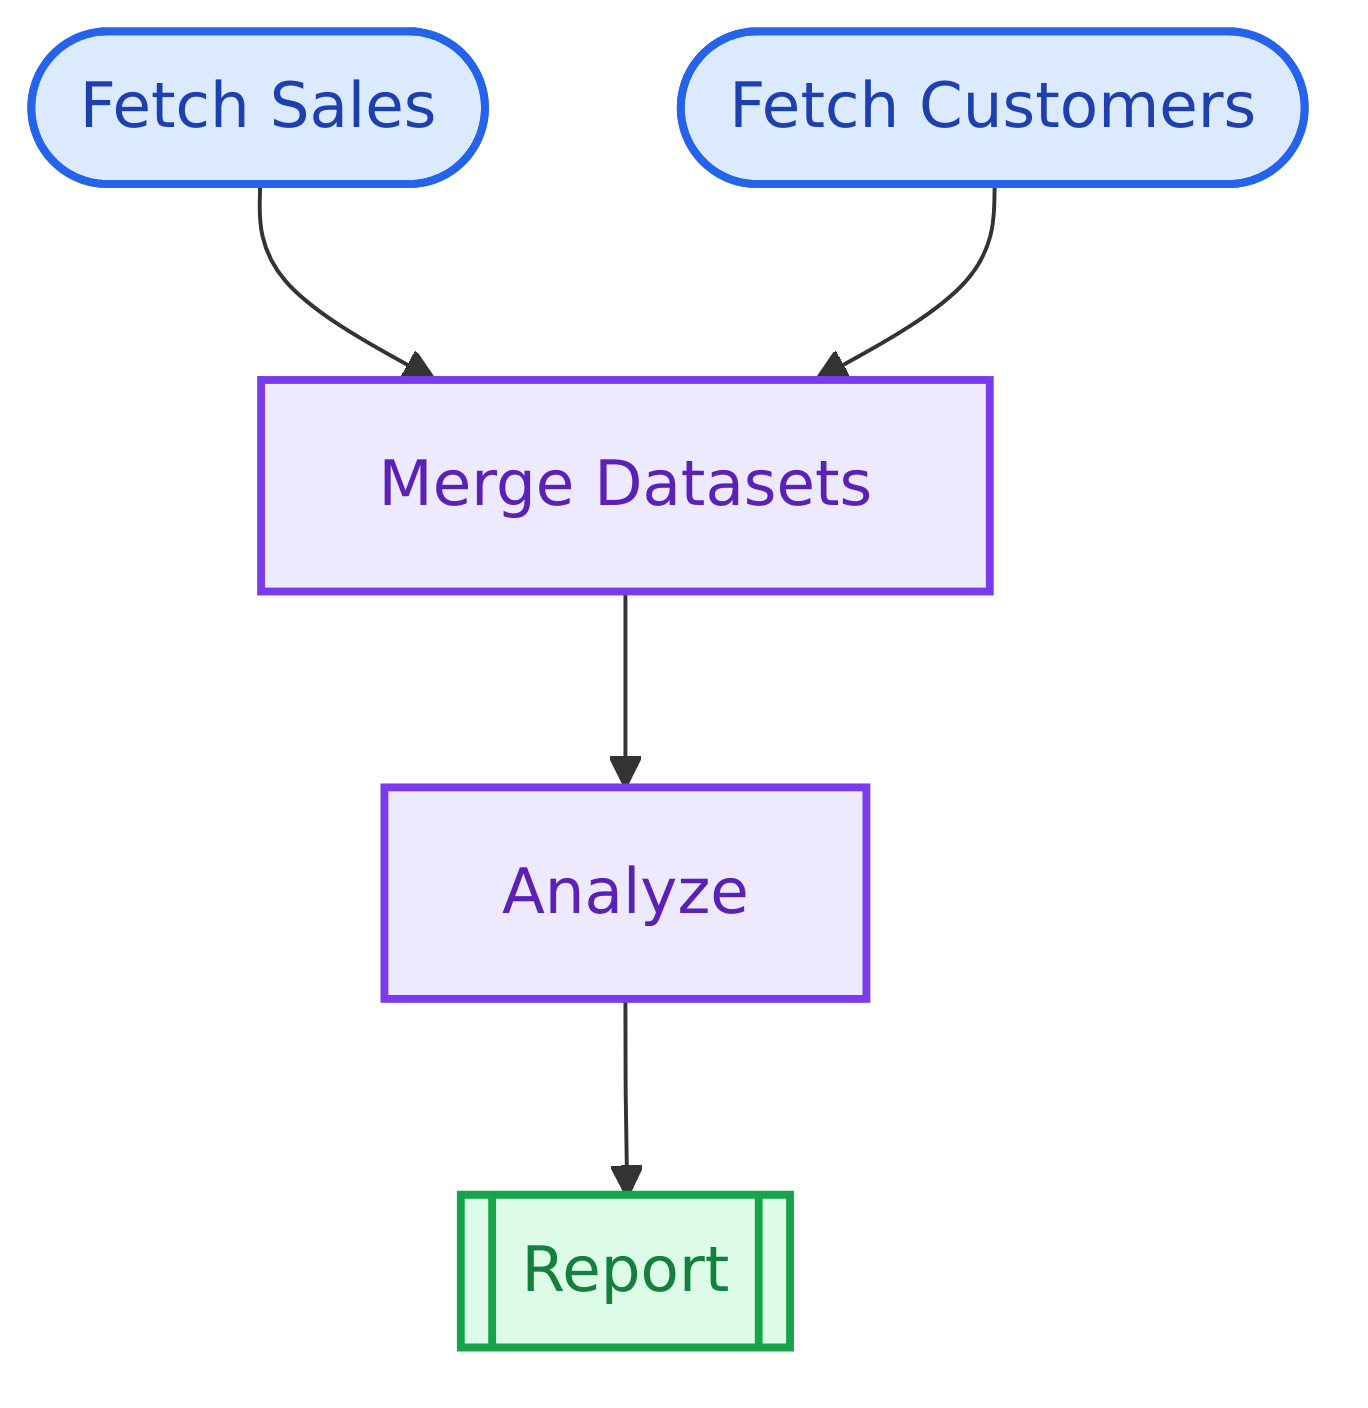
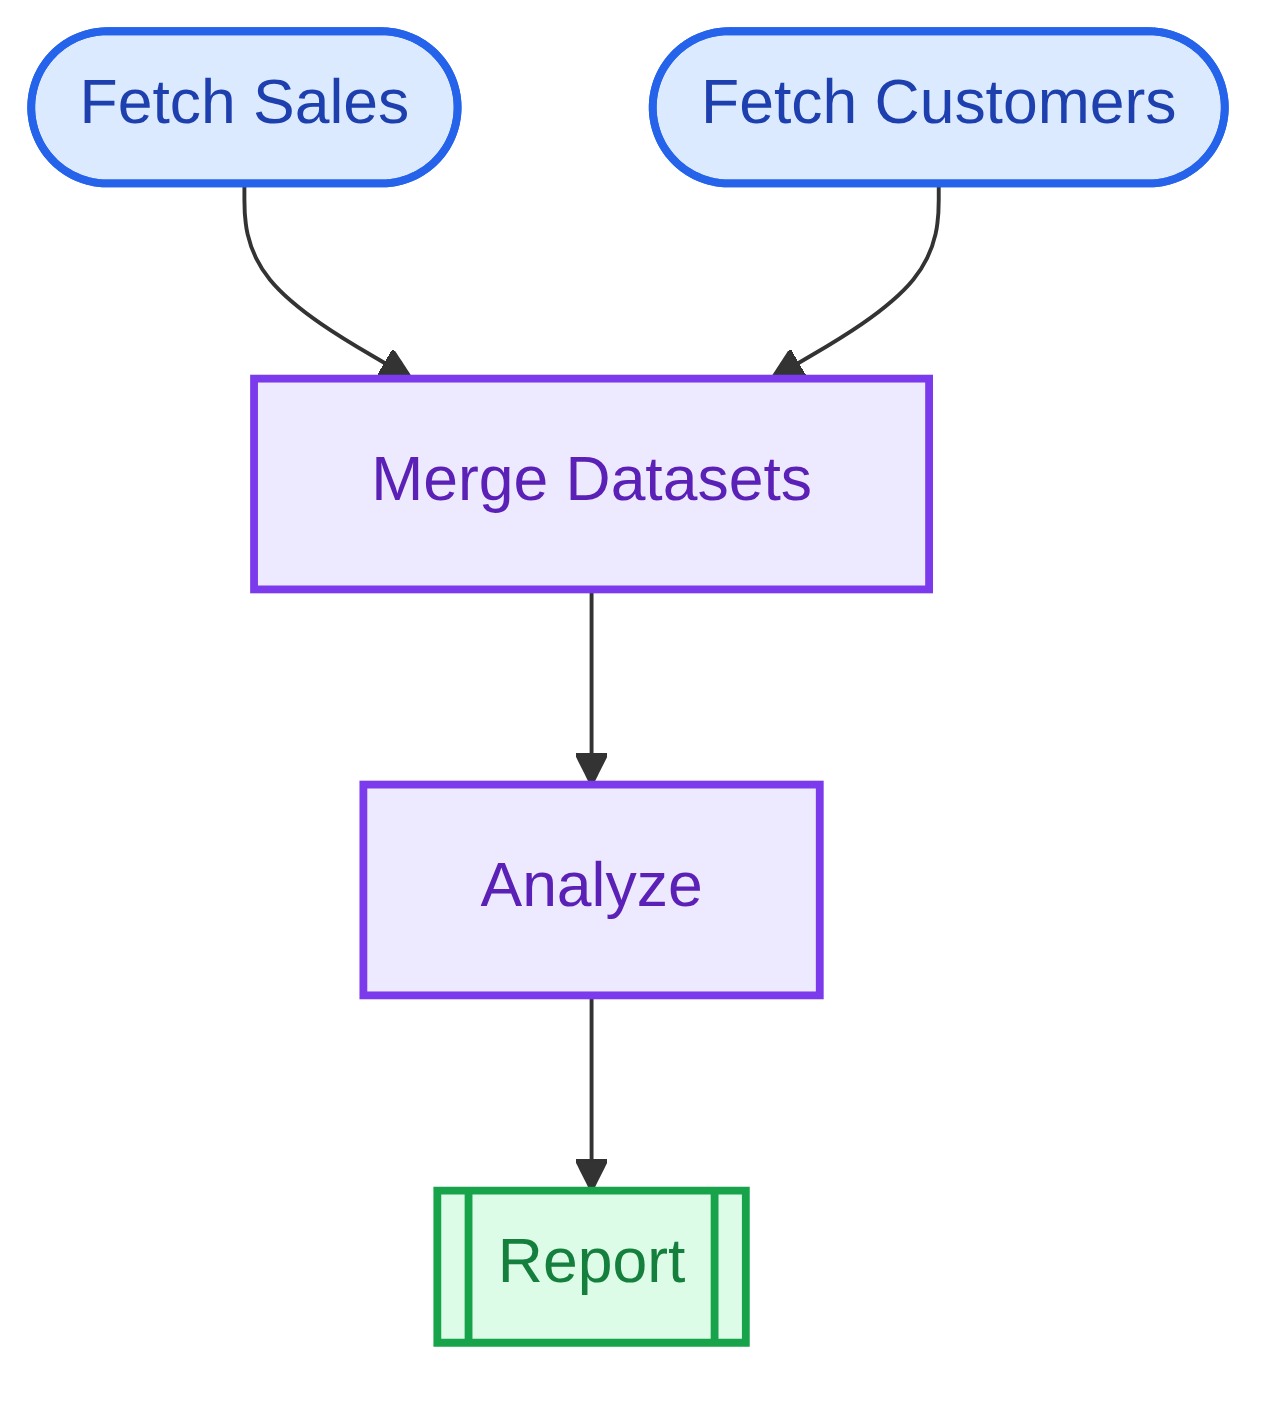
chore: pin the Mermaid CLI and Mermaid, and pass a classic config
inst/cheatsheet/generate-diagrams.R and inst/examples/create-demo-gif.R
called a globally installed mmdc with no version and no configuration.
`npm install -g @mermaid-js/mermaid-cli`, as their hints said, now gives
mermaid-cli 12.0.0, which uses Mermaid 12: ELK layout, neo look,
redux-color theme and labels wrapped at 120px. Images rendered that way
would not match the pkgdown site, the sandbox or GitLab/Quarto.

Both scripts now:
- run `npx --yes -p @mermaid-js/mermaid-cli@12.0.0 -p mermaid@12.2.0
  mmdc` by default. mermaid-cli 12.0.0 accepts Mermaid ^12.0.0, so
  Mermaid is pinned next to it, to the version of the site and the
  sandbox; measured, the pinned command renders with Mermaid v12.2.0.
  PUTIOR_MMDC overrides the command (single quotes for paths with
  spaces; WSL paths on Windows, where the command runs inside WSL);
- pass inst/cheatsheet/mermaid-config.json with -c: dagre layout,
  classic look, default theme (an image has no host theme to keep),
  200px label wrapping and no minimum node width;
- stop unless they run from the package root;
- show the CLI's own error message on failure (generate-diagrams.R hid
  stderr, so every failure read "Is Node.js (npx) installed?").
The comment notes that the first run downloads about 1.4 GB (the CLI and
a Chrome for puppeteer) and needs Node.js 22.13 or later.

tests/mermaid/validate.mjs now also checks the Mermaid pins of these two
scripts against the tested versions, like the site's and the sandbox's.
[…]

diff --git a/CLAUDE.md b/CLAUDE.md
@@ -78,7 +78,7 @@ node tests/mermaid/validate.mjs tests/mermaid/corpus
 - A case fails on an R error while generating it, a parse or render error, an SVG that does not draw exactly the nodes Mermaid parsed, or nodes that differ from what putior defined (phantom, merged or lost nodes, `class`/`click` lines for undefined ids, duplicate subgraph ids), fewer parsed edges than `-->` lines, or when no HTML label shows one of the case's `expected_texts` as written.
 - Give a case `expected_texts` (an `add_case()` argument) when its labels could be misread: the node checks do not notice a changed label, and a node whose definition Mermaid drops still appears through its edges, with its id as label (#89). A label with a double quote goes in single quotes in its annotation, as `chain_fixture()` writes them (#91).
 - Known bugs are listed in `tests/mermaid/expected-failures.json` with their issue and the problem kinds they cause (`generate`, `parse`, `render`, `nodes`, `edges`, `subgraphs`, `text`). A problem of another kind in a listed case still fails. When a fix makes a listed case pass, the check fails until the entry is removed, so a fix PR removes its entries.
-- The site and sandbox Mermaid pins must be versions in `package.json`; the check fails otherwise.
+- The Mermaid pins of the site, the sandbox and the asset scripts (`inst/cheatsheet/generate-diagrams.R`, `inst/examples/create-demo-gif.R`, which run a pinned mermaid-cli through `npx`) must be versions in `package.json`; the check fails otherwise.
 - Add a case for every diagram option or edge case that changes the generated Mermaid. The whole directory is in `.Rbuildignore` (no Node.js on CRAN).
 - From WSL, run the generator with Windows `Rscript.exe` from the package root, so that renv's project library is used (it calls `pkgload::load_all()` when pkgload is installed), and the checker with WSL's Node.
 
